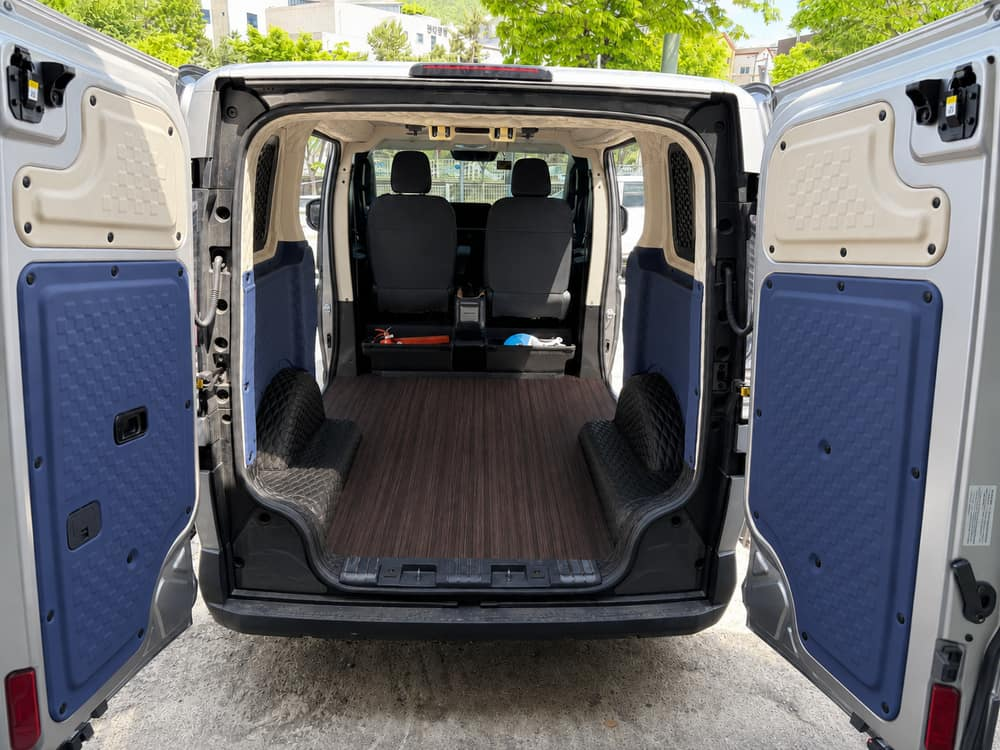
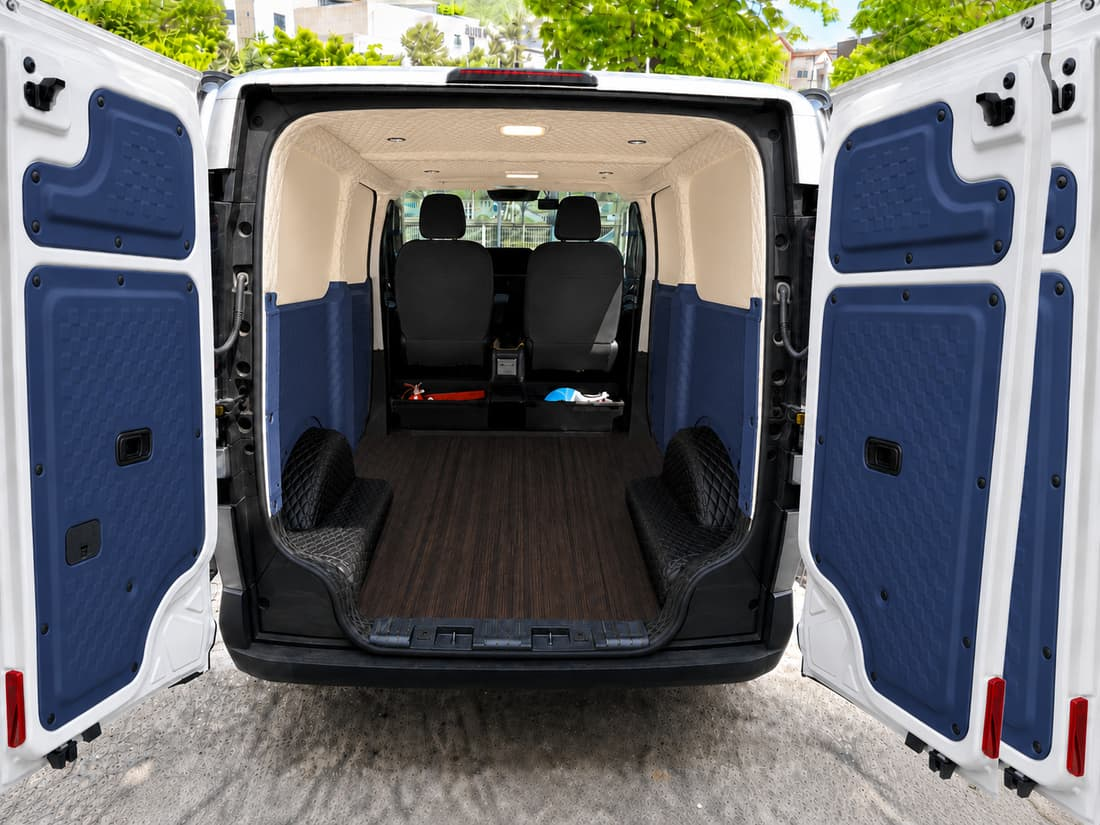
사진 재구성
- 새 hero (오픈격벽 아이보리 + 대리석플로어)
- 컬러 7→8가지로 확장: 단색 4(아이보리·네이비·블랙·브라운) + 투톤 4(아이보리네이비·아이보리블랙·브라운아이보리[NEW]·브라운블랙)
- 6.아이보리블랙투톤 → 3.아이보리블랙 (더 정돈된 새 컷)
- 사라진 오픈격벽2(navy) 자리는 hero 슬라이드는 다른 컬러로 대체, feature 01은 duo 디테일 컷으로
- 이미지 화질 전반 상향 (q72→74-76)

diff --git a/index.html b/index.html
@@ -748,17 +748,17 @@ footer{background:var(--forest-deep);color:rgba(255,255,255,.78);padding:40px 40
     <div class="hero-frame">
       <div class="hero-slides">
         <img class="hero-slide active" src="images/hero.jpg" alt="FCP PV5 카고 풀엠보 — 오픈격벽 아이보리">
-        <img class="hero-slide" src="images/partition_nv.jpg" alt="FCP PV5 카고 풀엠보 — 오픈격벽 네이비">
-        <img class="hero-slide" src="images/c_orange.jpg" alt="FCP PV5 카고 풀엠보 — 브라운">
-        <img class="hero-slide" src="images/c_ivoryblack.jpg" alt="FCP PV5 카고 풀엠보 — 아이보리 블랙 투톤">
         <img class="hero-slide" src="images/c_navy.jpg" alt="FCP PV5 카고 풀엠보 — 올네이비">
+        <img class="hero-slide" src="images/c_brown.jpg" alt="FCP PV5 카고 풀엠보 — 브라운">
+        <img class="hero-slide" src="images/c_ivoryblack.jpg" alt="FCP PV5 카고 풀엠보 — 아이보리·블랙 투톤">
+        <img class="hero-slide" src="images/c_brownivory.jpg" alt="FCP PV5 카고 풀엠보 — 브라운·아이보리 투톤">
       </div>
       <div class="hero-dots" role="tablist" aria-label="대표 인테리어 컬러">
         <button class="hero-dot active" data-i="0" aria-label="오픈격벽 아이보리"></button>
-        <button class="hero-dot" data-i="1" aria-label="오픈격벽 네이비"></button>
+        <button class="hero-dot" data-i="1" aria-label="올네이비"></button>
         <button class="hero-dot" data-i="2" aria-label="브라운"></button>
-        <button class="hero-dot" data-i="3" aria-label="아이보리 블랙 투톤"></button>
-        <button class="hero-dot" data-i="4" aria-label="올네이비"></button>
+        <button class="hero-dot" data-i="3" aria-label="아이보리·블랙"></button>
+        <button class="hero-dot" data-i="4" aria-label="브라운·아이보리"></button>
       </div>
       <div class="hero-content">
         <div class="hero-top">
@@ -903,10 +903,9 @@ footer{background:var(--forest-deep);color:rgba(255,255,255,.78);padding:40px 40
         <span class="green">보조금 영향 없음</span>
       </div>
     </div>
-    <div class="feature-media triple">
-      <img class="main" src="images/partition_nv.jpg" alt="PV5 카고 오픈격벽 — 네이비 풀엠보 전체 컷" loading="lazy" decoding="async">
-      <img class="detail" src="images/partial1.jpg" alt="PV5 카고 오픈격벽 — 측면 휠하우스 풀엠보 트리밍 디테일" loading="lazy" decoding="async">
-      <img class="detail" src="images/partial2.jpg" alt="PV5 카고 오픈격벽 — 카고 도어 내측 풀엠보 디테일" loading="lazy" decoding="async">
+    <div class="feature-media dual">
+      <img src="images/partial1.jpg" alt="PV5 카고 오픈격벽 — 측면 휠하우스 풀엠보 트리밍 디테일" loading="lazy" decoding="async">
+      <img src="images/partial2.jpg" alt="PV5 카고 오픈격벽 — 카고 도어 내측 풀엠보 디테일" loading="lazy" decoding="async">
     </div>
   </div>
 
@@ -1037,7 +1036,7 @@ footer{background:var(--forest-deep);color:rgba(255,255,255,.78);padding:40px 40
       </div>
     </div>
     <div class="color-card">
-      <div class="ph"><img src="images/c_orange.jpg" alt="브라운 단색" loading="lazy" decoding="async"></div>
+      <div class="ph"><img src="images/c_brown.jpg" alt="브라운 단색" loading="lazy" decoding="async"></div>
       <div class="meta">
         <span class="name"><em>브라운</em> 단색</span>
         <span class="swatch"><span class="sw" style="background:#b85a2a"></span></span>
@@ -1058,16 +1057,23 @@ footer{background:var(--forest-deep);color:rgba(255,255,255,.78);padding:40px 40
       </div>
     </div>
     <div class="color-card">
-      <div class="ph"><img src="images/c_orangeblack.jpg" alt="브라운 + 블랙 투톤" loading="lazy" decoding="async"></div>
+      <div class="ph"><img src="images/c_brownivory.jpg" alt="브라운 + 아이보리 투톤" loading="lazy" decoding="async"></div>
+      <div class="meta">
+        <span class="name">브라운·<em>아이보리</em></span>
+        <span class="swatch"><span class="sw" style="background:#b85a2a"></span><span class="sw" style="background:#f0e6d2"></span></span>
+      </div>
+    </div>
+    <div class="color-card">
+      <div class="ph"><img src="images/c_brownblack.jpg" alt="브라운 + 블랙 투톤" loading="lazy" decoding="async"></div>
       <div class="meta">
         <span class="name">브라운·<em>블랙</em></span>
         <span class="swatch"><span class="sw" style="background:#b85a2a"></span><span class="sw" style="background:#1a1a1a"></span></span>
       </div>
     </div>
-    <div class="color-card" style="display:flex;align-items:center;justify-content:center;background:var(--forest-tint);border-color:var(--forest-soft);min-height:180px">
-      <div style="text-align:center;padding:20px">
+    <div class="color-card" style="grid-column:1/-1;display:flex;align-items:center;justify-content:center;background:var(--forest-tint);border-color:var(--forest-soft);min-height:140px;padding:24px">
+      <div style="text-align:center">
         <div style="font-family:var(--ff-display);font-style:italic;font-size:30px;color:var(--gold);font-weight:500;margin-bottom:4px">+</div>
-        <div style="font-size:13px;color:var(--gold);font-weight:600;line-height:1.5">맞춤 컬러 조합<br>상담 가능</div>
+        <div style="font-size:14px;color:var(--gold-deep);font-weight:700;line-height:1.5">맞춤 컬러 조합 상담 가능</div>
       </div>
     </div>
   </div>
